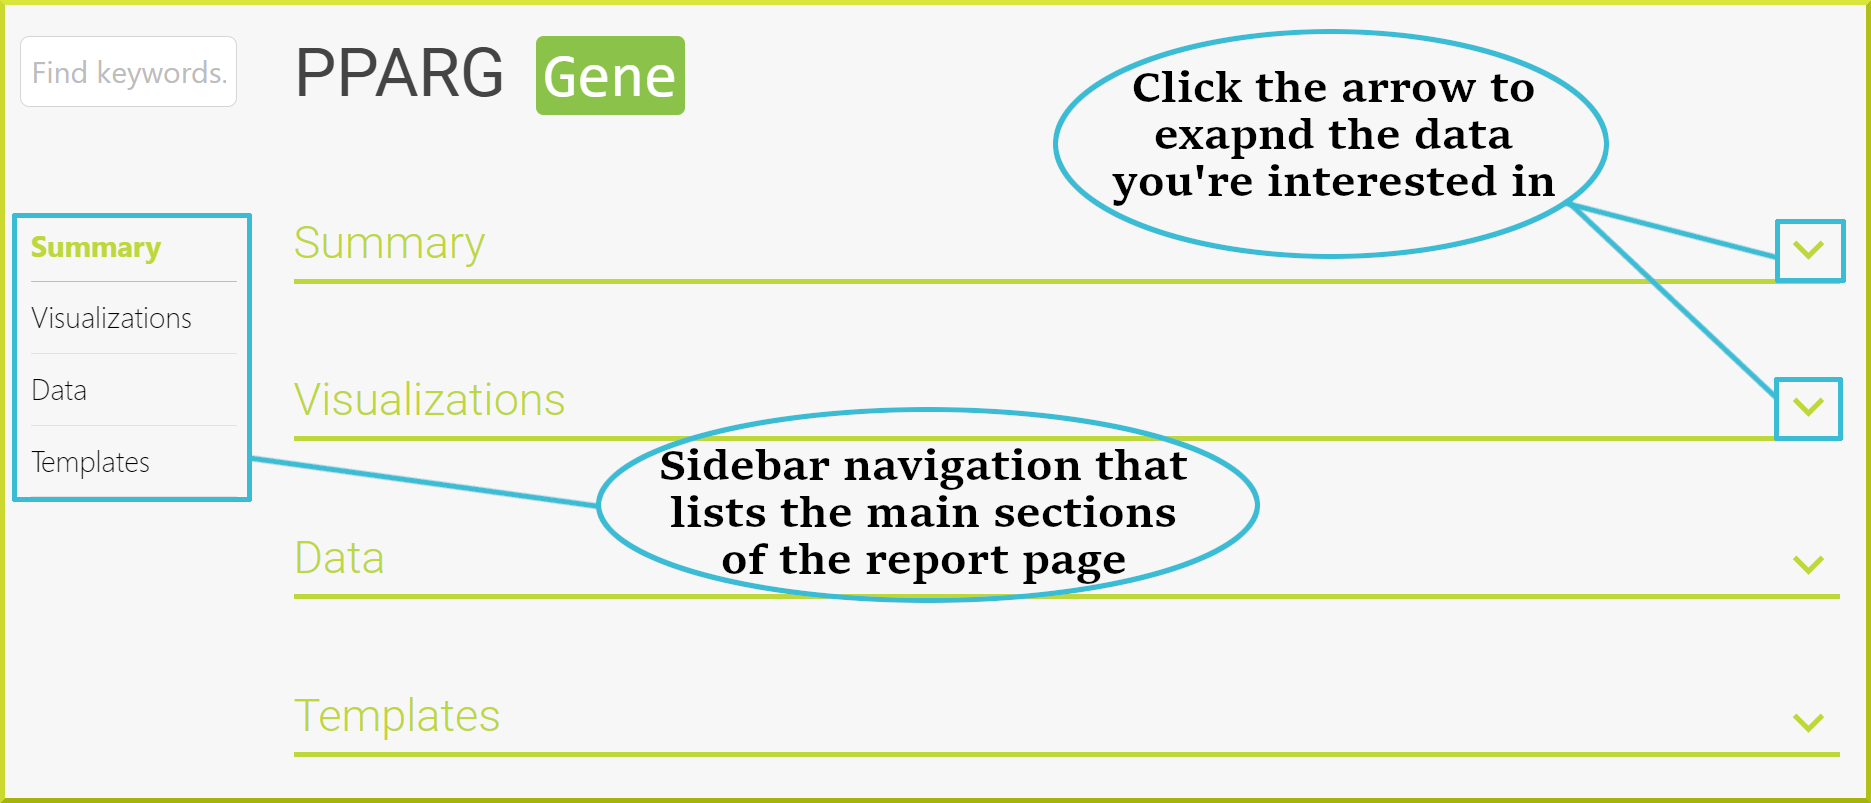
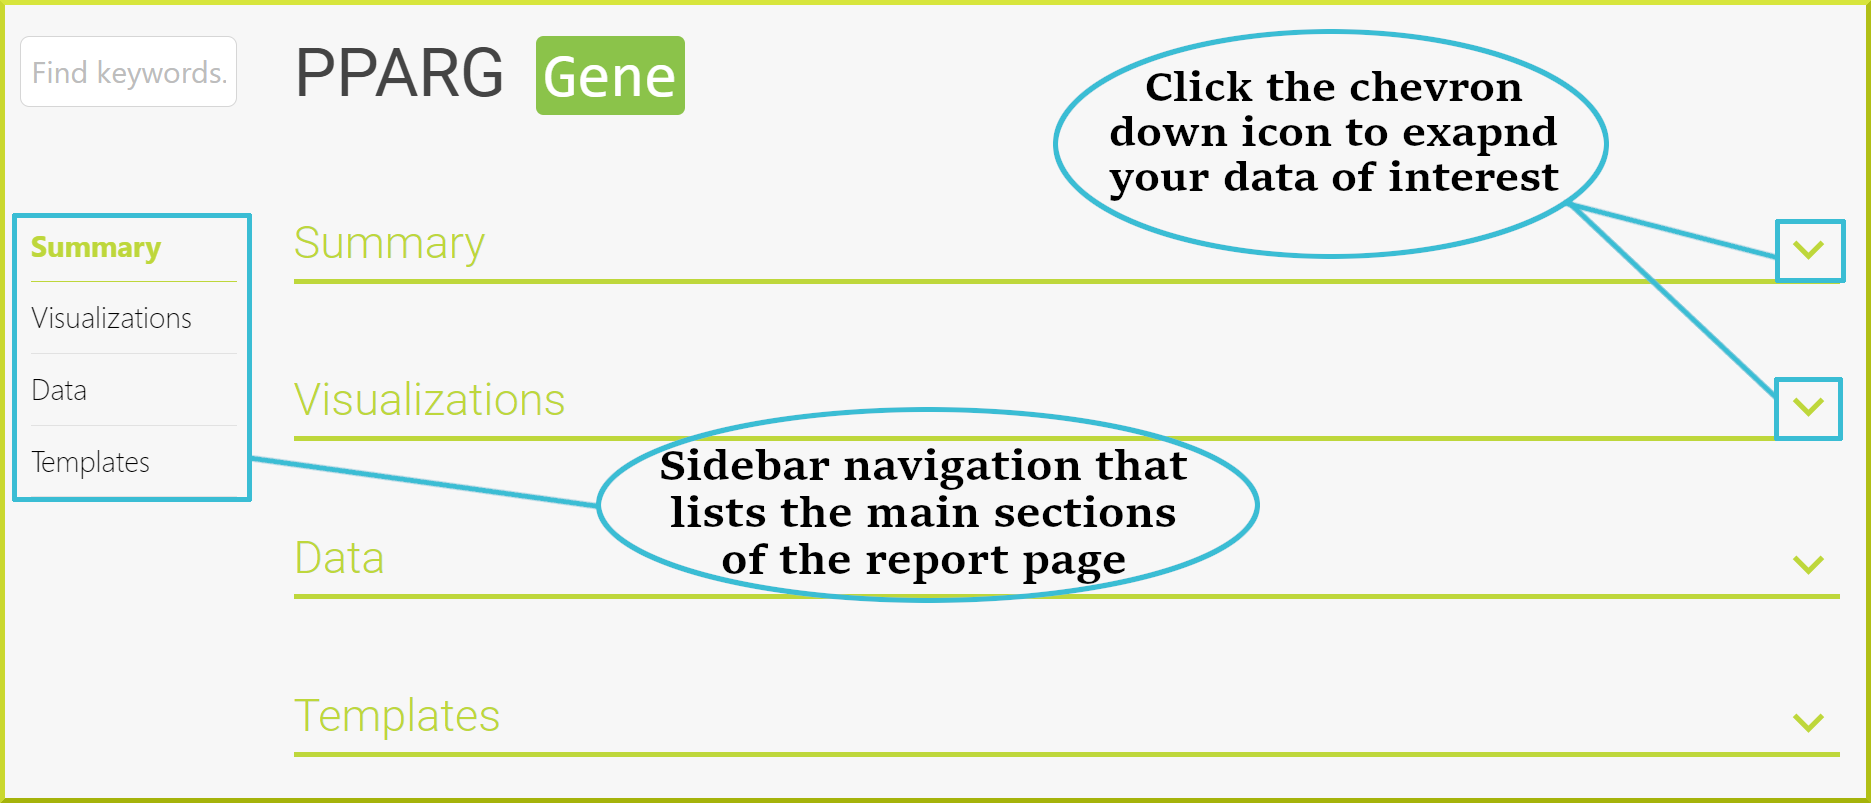
GitBook: [docs/user-docs] one page and 2 assets modified

Changed region(s): [[0.589, 0.0934, 0.837, 0.2491]]

diff --git a/content/user-documentation/report-pages.md b/content/user-documentation/report-pages.md
@@ -4,7 +4,7 @@ Report pages allow you to view all available information for a particular object
 
 ### Report page navigation
 
-The sidebar navigation menu on the left of every report page allows quick navigation to the data you are interested in. You can navigate to a different section by clicking the section name from the list, and you can expand any section by clicking on the arrow icon![](../../.gitbook/assets/arrow-removebg-preview.png). The following image shows the PPARG gene report page. 
+The sidebar navigation menu on the left of every report page allows quick navigation to the data you are interested in. You can navigate to a different section by clicking the section name from the list, and you can expand any section by clicking on the chevron down icon![](../../.gitbook/assets/arrow-removebg-preview.png). The following image shows the PPARG gene report page. 
 
 ![](../../.gitbook/assets/report-pages-main.png)
 
